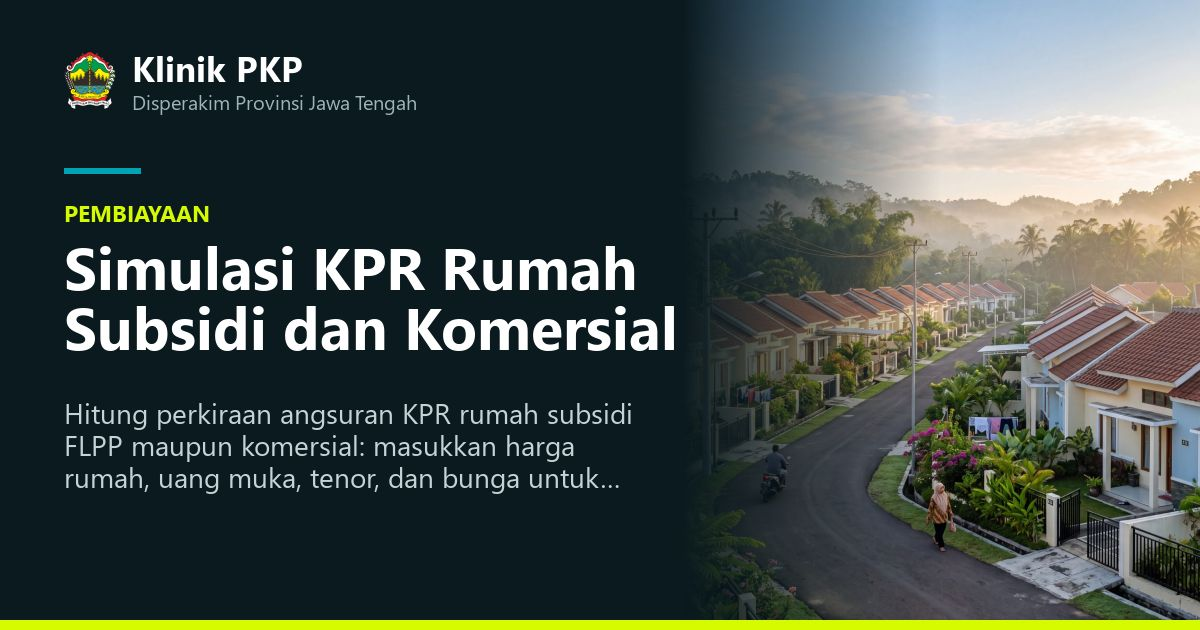
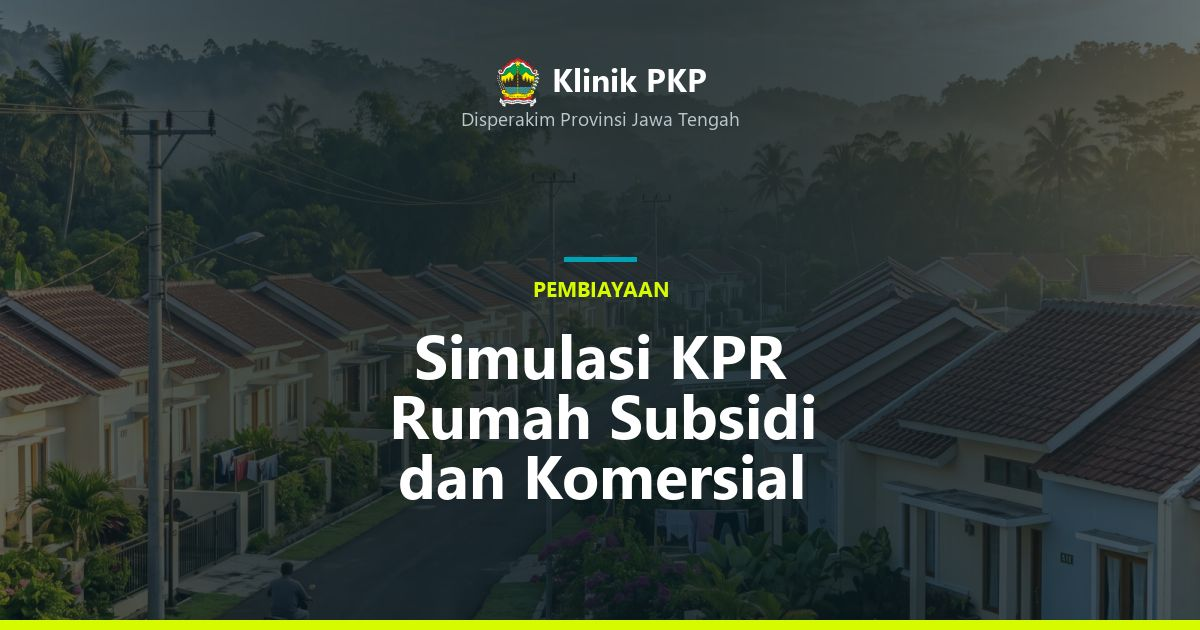
feat(seo): kartu Open Graph aman dipotong persegi untuk WhatsApp
WhatsApp, di ponsel maupun desktop, memotong og:image menjadi kotak di
tengah, sehingga judul kartu lama (rata kiri) terpenggal. Tata letak
baru: foto tema sebagai latar penuh yang digelapkan, lalu logo, label,
dan judul rata tengah di zona aman 630x630. Deskripsi tidak lagi ditulis
di gambar karena platform menampilkannya sebagai teks. Kartu dibuat
ulang, sekaligus menyamakan teks kartu Program Pemerintah dengan
judulnya yang sudah dipendekkan. Total 30 kartu 2,7 MB (dari 3,1 MB).

diff --git a/docs/engineering/buat_kartu_og.php b/docs/engineering/buat_kartu_og.php
@@ -6,8 +6,8 @@
  *
  *   php docs/engineering/buat_kartu_og.php
  *
- * Isi kartu: foto tema di kanan, logo dan nama layanan di kiri atas, label kecil, judul, dan deskripsi
- * dari config/seo.php; kartu program dari Katalog Program (DB lokal) dengan foto heronya. Font Segoe UI
+ * Isi kartu: foto tema sebagai latar gelap, lalu logo, label, dan judul rata tengah di zona aman persegi
+ * (judul dari config/seo.php); kartu program dari Katalog Program (DB lokal) dengan foto heronya. Font Segoe UI
  * dari C:\Windows\Fonts hanya dipakai untuk merender; berkas font tidak ikut repo. Jalankan ulang
  * sesudah judul di config/seo.php atau program di Katalog Program berubah, lalu commit hasilnya.
  */
@@ -105,42 +105,63 @@ function baris($teks, $font, $ukuran, $lebar, $maks) {
 
 $logo = muat('assets/img/logo-jateng.png');
 $dibuat = 0;
+/** Tulis teks rata tengah pada garis dasar $y. */
+function tengah($im, $ukuran, $font, $teks, $y, $warna) {
+    $b = imagettfbbox($ukuran, 0, $font, $teks);
+    imagettftext($im, $ukuran, 0, (int) ((LEBAR - ($b[2] - $b[0])) / 2), $y, $warna, $font, $teks);
+}
+
+// Tata letak AMAN DIPOTONG PERSEGI (7 Okt 2026): WhatsApp, di ponsel maupun desktop, memotong og:image jadi
+// kotak di tengah. Semua yang harus terbaca (logo, label, judul) berada di zona tengah 630x630
+// (x 285..915); foto tema jadi latar penuh yang digelapkan. Deskripsi tidak ditulis di gambar karena
+// platform menampilkannya sebagai teks di bawah kartu.
+const ZONA = 540; // lebar teks maksimal, di dalam kotak tengah 630 dengan napas di kiri-kanan
 foreach ($kartu as $slug => [$label, $judul, $deskripsi, $foto]) {
     $im = imagecreatetruecolor(LEBAR, TINGGI);
     imagealphablending($im, TRUE);
     imagefill($im, 0, 0, warna($im, '#0a1a1f'));
 
-    // Foto di kanan (crop menutup 520x630), dilebur ke latar dengan gradasi.
     $src = $foto ? muat($foto) : NULL;
     if ($src) {
-        $fw = 520; $sw = imagesx($src); $sh = imagesy($src);
-        $skala = max($fw / $sw, TINGGI / $sh);
-        $cw = (int) ($fw / $skala); $ch = (int) (TINGGI / $skala);
-        imagecopyresampled($im, $src, LEBAR - $fw, 0, (int) (($sw - $cw) / 2), (int) (($sh - $ch) / 2), $fw, TINGGI, $cw, $ch);
-        for ($x = 0; $x < 260; $x++) {
-            imagefilledrectangle($im, LEBAR - $fw + $x, 0, LEBAR - $fw + $x, TINGGI, warna($im, '#0a1a1f', (int) (127 * $x / 260)));
-        }
+        $sw = imagesx($src); $sh = imagesy($src);
+        $skala = max(LEBAR / $sw, TINGGI / $sh);
+        $cw = (int) (LEBAR / $skala); $ch = (int) (TINGGI / $skala);
+        imagecopyresampled($im, $src, 0, 0, (int) (($sw - $cw) / 2), (int) (($sh - $ch) / 2), LEBAR, TINGGI, $cw, $ch);
         imagedestroy($src);
+        // Lapisan gelap merata, ditambah pita tengah yang lebih pekat di belakang teks.
+        imagefilledrectangle($im, 0, 0, LEBAR, TINGGI, warna($im, '#0a1a1f', 48));
+        for ($x = 0; $x < LEBAR; $x++) {
+            $jarak = abs($x - LEBAR / 2) / (LEBAR / 2);           // 0 di tengah, 1 di tepi
+            $alpha = (int) min(127, 60 + 67 * $jarak * $jarak);  // tengah lebih gelap
+            imagefilledrectangle($im, $x, 0, $x, TINGGI, warna($im, '#0a1a1f', $alpha));
+        }
     }
-    // Pita aksen bawah dan garis teal.
     imagefilledrectangle($im, 0, TINGGI - 10, LEBAR, TINGGI, warna($im, '#d6fb00'));
-    imagefilledrectangle($im, 64, 168, 140, 173, warna($im, '#00a3b5'));
 
-    // Logo dan nama layanan.
-    if ($logo) { imagecopyresampled($im, $logo, 64, 52, 0, 0, 52, (int) (52 * imagesy($logo) / imagesx($logo)), imagesx($logo), imagesy($logo)); }
-    imagettftext($im, 26, 0, 132, 82, warna($im, '#ffffff'), $GLOBALS['FONT_TEBAL'], 'Klinik PKP');
-    imagettftext($im, 15, 0, 132, 110, warna($im, '#9fb3b8'), $GLOBALS['FONT_BIASA'], 'Disperakim Provinsi Jawa Tengah');
+    // Logo + nama layanan, rata tengah.
+    $teks_merek = 'Klinik PKP';
+    $bm = imagettfbbox(24, 0, $GLOBALS['FONT_TEBAL'], $teks_merek);
+    $lebar_merek = 44 + 12 + ($bm[2] - $bm[0]);
+    $x0 = (int) ((LEBAR - $lebar_merek) / 2);
+    if ($logo) { imagecopyresampled($im, $logo, $x0, 58, 0, 0, 44, (int) (44 * imagesy($logo) / imagesx($logo)), imagesx($logo), imagesy($logo)); }
+    imagettftext($im, 24, 0, $x0 + 56, 92, warna($im, '#ffffff'), $GLOBALS['FONT_TEBAL'], $teks_merek);
+    tengah($im, 14, $GLOBALS['FONT_BIASA'], 'Disperakim Provinsi Jawa Tengah', 126, warna($im, '#b8c9cd'));
 
-    // Label, judul, deskripsi.
-    imagettftext($im, 17, 0, 64, 222, warna($im, '#d6fb00'), $GLOBALS['FONT_TEBAL'], mb_strtoupper($label));
-    $y = 290;
-    foreach (baris($judul, $GLOBALS['FONT_TEBAL'], 44, 610, 3) as $b) { imagettftext($im, 44, 0, 64, $y, warna($im, '#ffffff'), $GLOBALS['FONT_TEBAL'], $b); $y += 60; }
-    $y += 14;
-    foreach (baris($deskripsi, $GLOBALS['FONT_BIASA'], 21, 600, 3) as $b) { imagettftext($im, 21, 0, 64, $y, warna($im, '#c4d3d6'), $GLOBALS['FONT_BIASA'], $b); $y += 32; }
+    // Judul: 46pt, turun ke 40pt bila lebih dari tiga baris; blok label + judul dipusatkan di bawah merek.
+    $ukuran = 46; $baris_judul = baris($judul, $GLOBALS['FONT_TEBAL'], $ukuran, ZONA, 4);
+    if (count($baris_judul) > 3) { $ukuran = 40; $baris_judul = baris($judul, $GLOBALS['FONT_TEBAL'], $ukuran, ZONA, 4); }
+    $tinggi_baris = (int) ($ukuran * 1.32);
+    $tinggi_blok = 40 + count($baris_judul) * $tinggi_baris;
+    $y = (int) (150 + (TINGGI - 10 - 150 - $tinggi_blok) / 2) + 22;
+    imagefilledrectangle($im, (int) (LEBAR / 2 - 36), $y - 40, (int) (LEBAR / 2 + 36), $y - 36, warna($im, '#00a3b5'));
+    tengah($im, 16, $GLOBALS['FONT_TEBAL'], mb_strtoupper($label), $y, warna($im, '#d6fb00'));
+    $y += 22 + $tinggi_baris;
+    foreach ($baris_judul as $b) { tengah($im, $ukuran, $GLOBALS['FONT_TEBAL'], $b, $y, warna($im, '#ffffff')); $y += $tinggi_baris; }
 
     imagejpeg($im, $KELUAR . $slug . '.jpg', 80);
     imagedestroy($im);
     $dibuat++;
-    echo "  $slug.jpg\n";
+    echo "  $slug.jpg
+";
 }
 echo "Kartu dibuat: $dibuat di assets/img/og/\n";
